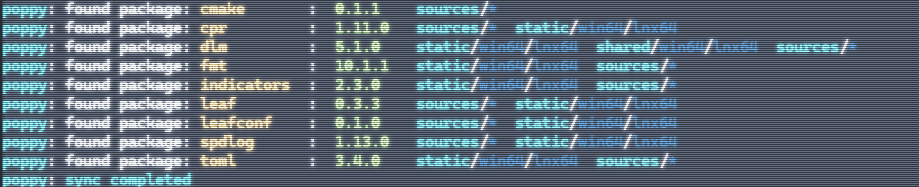
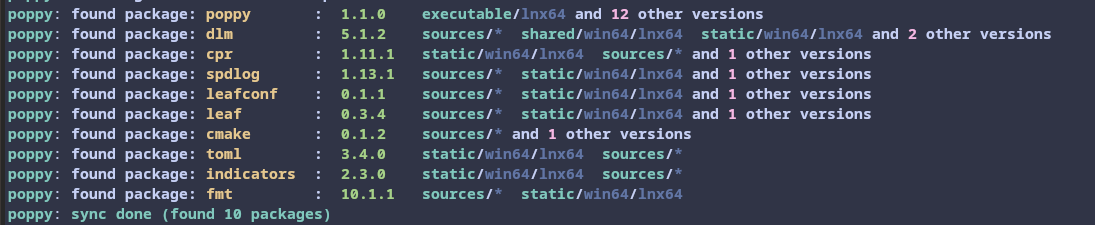
Almost finished syntax

diff --git a/src/poppy.rs b/src/poppy.rs
@@ -2,8 +2,8 @@ use std::cell::RefCell;
 use std::rc::Rc;
 use anyhow::{Context, ensure};
 use colored::Colorize;
-use log::{debug, error, info, warn};
-use crate::args::{Args, Commands};
+use log::{debug, error, info, trace, warn};
+use crate::args::{Args, Commands, InstallArgs, PurgeArgs};
 use crate::artifactory::Artifactory;
 use crate::consts::{POPPY_CACHE_DIRECTORY_NAME, POPPY_INSTALLATION_DIRECTORY_NAME, POPPY_REGISTRY_DIRECTORY_NAME};
 use crate::manifest::Manifest;
@@ -84,10 +84,6 @@ impl Poppy
   pub fn run(&mut self) -> anyhow::Result<()>
   {
     let args = self.args.clone();
-    if args.create {
-      self.create_manifest()?;
-      return Ok(());
-    }
 
     if args.username.is_some() && args.token.is_some() {
       self.setup_oauth(args.username.as_ref().unwrap(), args.token.as_ref().unwrap())?;
@@ -99,10 +95,10 @@ impl Poppy
     }
 
     match args.command.as_ref().context("command not found")? {
-      Commands::Push { name: n } => {
-        ensure!(n.is_some(), "name is required for push command");
+      Commands::Push(x) => {
+        ensure!(x.name.is_some(), "name is required for push command");
         self.artifactory
-          .push(&Manifest::from_pwd()?, n.as_ref().unwrap())?;
+          .push(&Manifest::from_pwd()?, x.name.as_ref().unwrap())?;
         return Ok(());
       }
       _ => {}
@@ -110,8 +106,8 @@ impl Poppy
 
     self
       .print_environment()
-      .sync(!args.lazy)?
-      .fresh(args.fresh)?
+      .sync(!matches!(args.command, Some(Commands::Install(InstallArgs { lazy: true, .. }))))?
+      .fresh(matches!(args.command, Some(Commands::Install(InstallArgs { fresh: true, .. }))))?
       .install()?;
     Ok(())
   }
@@ -190,15 +186,6 @@ impl Poppy
     Ok(self)
   }
 
-  fn create_manifest(&self) -> anyhow::Result<()>
-  {
-    info!("creating new manifest in current working folder");
-    Manifest::from_cli_input()?
-      .save()?;
-    info!("manifest created successfully");
-    Ok(())
-  }
-
   pub fn version()
   {
     println!("{}", crate::utils::ascii::POPPY_ASCII_ART.yellow().bold());
@@ -219,24 +206,28 @@ impl Poppy
     println!("copyright {}", "whs31 @ radar-mms (c) 2024".blue().bold());
   }
 
-  pub fn purge(cache_only: bool)
+  pub fn purge(args: &PurgeArgs)
   {
-    match cache_only {
-      true => warn!("purging cache folder only"),
-      false => warn!("purging config and cache folders")
+    if !args.all && !args.config && !args.cache {
+      error!("nothing to purge. use --all, --config or --cache to purge");
+      std::process::exit(1);
     }
     let dirs = PROJECT_DIRS.lock().unwrap();
     let config_folder = dirs.config_dir();
     let cache_folder = dirs.cache_dir();
-    if !cache_only {
-      match std::fs::remove_dir_all(config_folder) {
-        Ok(_) => debug!("purged config folder successfully"),
-        Err(e) => error!("failed to purge config folder: {}", e)
+    if args.cache || args.all {
+      warn!("purging cache folder");
+      match std::fs::remove_dir_all(cache_folder) {
+        Ok(_) => debug!("purged cache folder successfully"),
+        Err(e) => trace!("failed to purge cache folder: {}", e)
       }
     }
-    match std::fs::remove_dir_all(cache_folder) {
-      Ok(_) => debug!("purged cache folder successfully"),
-      Err(e) => error!("failed to purge cache folder: {}", e)
+    if args.config || args.all {
+      warn!("purging config folder");
+      match std::fs::remove_dir_all(config_folder) {
+        Ok(_) => debug!("purged config folder successfully"),
+        Err(e) => trace!("failed to purge config folder: {}", e)
+      }
     }
     info!("done!");
   }

diff --git a/src/args.rs b/src/args.rs
@@ -10,35 +10,14 @@ pub struct Args
   /// Print poppy version
   #[arg(long)] pub version: bool,
 
-  /// Sync remote registry
-  #[arg(short, long)] pub sync: bool,
-
   /// Override platform arch (default: native)
   #[arg(long)] pub arch: Option<String>,
-
-  /// Perform operations in lazy mode (no implicit git clone/downloading)
-  #[arg(short, long)] pub lazy: bool,
-
-  /// Create and configure manifest in current working folder
-  #[arg(long)] pub create: bool,
-
-  /// Specify for purge to clear only cache
-  #[arg(long)] pub cache_only: bool,
 
   /// Set username for artifactory OAuth. Use --token to set token.
   #[arg(long)] pub username: Option<String>,
 
   /// Set token for artifactory OAuth. Use --username to set username.
   #[arg(long)] pub token: Option<String>,
-
-  /// Specify distribution to push to artifactory
-  #[arg(long)] pub distribution: Option<String>,
-
-  /// Force!
-  #[arg(long)] pub force: bool,
-
-  /// Clean dependencies folder and continue fresh installation
-  #[arg(short, long)] pub fresh: bool,
 
   /// Verbose output
   #[arg(short, long)] pub verbose: bool,
@@ -48,17 +27,56 @@ pub struct Args
 pub enum Commands
 {
   /// Install dependencies from manifest in current working folder
-  Install,
+  Install(InstallArgs),
 
   /// Push file to artifactory
-  Push { name: Option<String> },
+  Push(PushArgs),
 
   /// Clean dependencies folder
   Clean,
 
-  /// Purge cache and config folders
-  Purge,
+  /// Purge cache and config folders. Specify --cache to clear only cache or --all to clear all entries
+  Purge(PurgeArgs),
 
   /// Get specified field from manifest in current working folder
   Parse { what: Option<String> },
+}
+
+#[derive(clap::Args, Debug, Clone)]
+pub struct PurgeArgs
+{
+  /// Specify for purge to clear only cache
+  #[arg(long)] pub cache: bool,
+
+  /// Specify for purge to clear only config
+  #[arg(long)] pub config: bool,
+
+  /// Specify for purge to clear all (config + cache)
+  #[arg(long)] pub all: bool
+}
+
+#[derive(clap::Args, Debug, Clone)]
+pub struct InstallArgs
+{
+  /// Perform installation in lazy mode (no implicit git clone/downloading)
+  #[arg(short, long)] pub lazy: bool,
+
+  /// Sync remote registry
+  #[arg(short, long)] pub sync: bool,
+
+  /// Clean dependencies folder and continue fresh installation
+  #[arg(short, long)] pub fresh: bool,
+}
+
+#[derive(clap::Args, Debug, Clone)]
+pub struct PushArgs
+{
+  /// File to push to artifactory
+  pub name: Option<String>,
+
+  /// Force push (override existing package on artifactory)
+  #[arg(short, long)] pub force: bool,
+
+  /// Specify distribution to push to artifactory
+  #[arg(short, long)] pub distribution: Option<String>,
 }

diff --git a/src/artifactory/artifactory.rs b/src/artifactory/artifactory.rs
@@ -7,7 +7,7 @@ use colored::Colorize;
 use indicatif::{ProgressBar, ProgressDrawTarget, ProgressStyle};
 use futures_util::stream::StreamExt;
 use log::{debug, info, trace, warn};
-use crate::args::{Args, Commands};
+use crate::args::{Args, Commands, PushArgs};
 use crate::manifest::Manifest;
 use crate::resolver::Dependency;
 use crate::utils::Config;
@@ -33,7 +33,6 @@ impl Artifactory
   {
     debug!("pushing!");
     ensure!(self.args.arch.as_ref().is_some() && !self.args.arch.as_ref().unwrap().is_empty(), "push arch cannot be empty");
-    ensure!(self.args.distribution.as_ref().is_some() && !self.args.distribution.as_ref().unwrap().is_empty(), "push distribution cannot be empty");
     ensure!(!self.config.borrow().auth.username.is_empty() && !self.config.borrow().auth.token.is_empty(),
       "no username or token provided for artifactory oauth. please provide using --username and \
       --token flags or enter credentials interactively via poppy --sync");
@@ -43,13 +42,16 @@ impl Artifactory
       .unwrap()
       .as_str()
     );
-    let distribution = Distribution::from(self.args.distribution
-      .clone()
-      .unwrap()
-      .as_str()
+    let distribution = Distribution::from(
+      match &self.args.command
+      {
+        Some(Commands::Push(arg)) => arg.distribution.as_ref().context("distribution cannot be empty")?.as_str(),
+        _ => "unknown"
+      }
     );
+    ensure!(!matches!(distribution, Distribution::Unknown), "unknown distribution");
     let push_target = match self.args.command.as_ref().context("command not found")? {
-      Commands::Push { name: n } => n.as_ref().context("push target cannot be empty")?,
+      Commands::Push(arg) => arg.name.as_ref().context("push target cannot be empty")?,
       _ => std::process::exit(1)
     };
 
@@ -74,7 +76,8 @@ impl Artifactory
 
     let data = std::fs::read(data_path)?;
 
-    if self.args.force.clone() { warn!("force pushing. this can be dangerous!"); }
+    let force_push = matches!(self.args.command, Some(Commands::Push(PushArgs { force: true, .. }, ..)));
+    if force_push { warn!("force pushing. this can be dangerous!"); }
     trace!("pushing {} kb to {}", data.len() / 1024, url);
     trace!("username: {}", self.config.borrow().auth.username.as_str());
     trace!("token: {}", self.config.borrow().auth.token.as_str());
@@ -89,7 +92,7 @@ impl Artifactory
 
     if exists.status() != 404 {
       info!("file already exists on artifactory");
-      if !self.args.force {
+      if !force_push {
         debug!("skipping push");
         return Ok(());
       }

diff --git a/src/main.rs b/src/main.rs
@@ -35,15 +35,15 @@ fn main() {
 
   match args.command
   {
-    Some(Commands::Install) | Some(Commands::Push { .. }) => {}
+    Some(Commands::Install { .. }) | Some(Commands::Push { .. }) => {}
     Some(Commands::Clean) => {
       poppy::Poppy::clean()
         .map_err(|e| { error!("failed to clean: {}", e); std::process::exit(1) } )
         .unwrap();
       std::process::exit(0);
     }
-    Some(Commands::Purge) => {
-      poppy::Poppy::purge(args.cache_only);
+    Some(Commands::Purge(a)) => {
+      poppy::Poppy::purge(&a);
       std::process::exit(0);
     },
     Some(Commands::Parse { what }) => {

diff --git a/src/registry/registry.rs b/src/registry/registry.rs
@@ -113,6 +113,11 @@ impl Registry
       debug!("found package: {}", &entry.pretty_format());
     }
 
+    let serialized = serde_yaml::to_string(&self.packages)?;
+    std::fs::create_dir_all(Path::new(&self.registry_path))?;
+    std::fs::write(Path::new(&self.registry_path).join("registry.yml"), serialized)?;
+    trace!("wrote registry to cache ({})", &self.registry_path.dimmed());
+
     info!("sync done (found {} packages)", self.packages.len());
 
     Ok(self)

diff --git a/src/manifest/manifest.rs b/src/manifest/manifest.rs
@@ -43,6 +43,8 @@ impl Default for ManifestPackage
 }
 
 impl Manifest {
+  #[allow(dead_code)]
+  #[deprecated(note = "copy-paste instead")]
   pub fn from_cli_input() -> anyhow::Result<Self>
   {
     info!("enter package name:");
@@ -150,6 +152,7 @@ impl Manifest {
     )
   }
 
+  #[allow(dead_code)]
   pub fn save(&self) -> anyhow::Result<()>
   {
     let path = std::env::current_dir()?

diff --git a/src/utils/helper_types/arch.rs b/src/utils/helper_types/arch.rs
@@ -1,6 +1,7 @@
 use std::fmt::Display;
+use serde::{Deserialize, Serialize};
 
-#[derive(Debug, Clone, Copy, Eq, PartialEq, Hash, Ord, PartialOrd)]
+#[derive(Debug, Clone, Copy, Eq, PartialEq, Hash, Ord, PartialOrd, Serialize, Deserialize)]
 pub enum PlatformArch
 {
   Windows64,

diff --git a/src/registry/entry.rs b/src/registry/entry.rs
@@ -1,7 +1,9 @@
 use std::collections::HashMap;
 use colored::Colorize;
+use serde::{Deserialize, Serialize};
 use crate::utils::helper_types::{Distribution, PlatformArch, Version};
 
+#[derive(Debug, Serialize, Deserialize)]
 pub struct RegistryEntry
 {
   pub name: String,

diff --git a/README.md b/README.md
@@ -70,7 +70,7 @@ fmt = { version = { major = 1, minor = 2, patch = 3 }, distribution = "shared" }
 
 #### Как узнать какие библиотеки доступны?
 Для этого можно написать команду `poppy --sync`, которая выдаст список библиотек в реестре `poppy`:
-![img2.png](docs/images/img_2.png)
+![img.png](img.png)
 
 #### Poppy требует авторизацию в артифактори! Что делать?
 Необходимо написать следующие команды:
